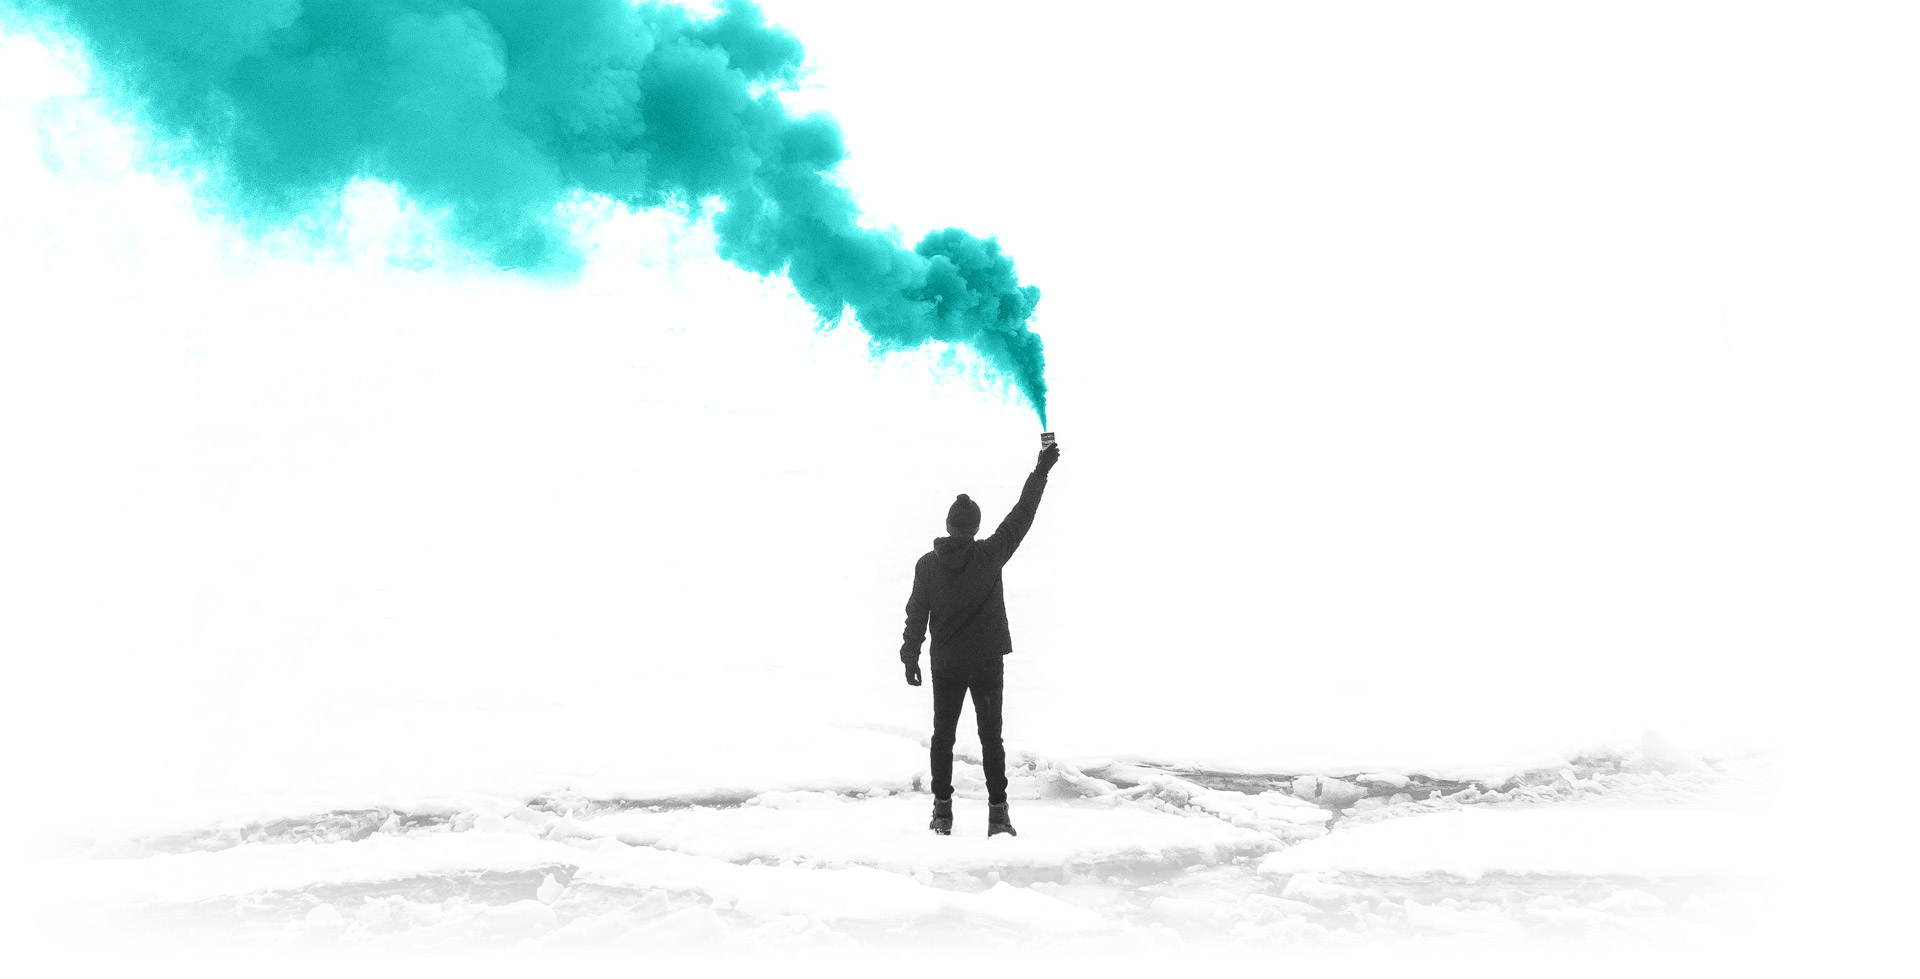
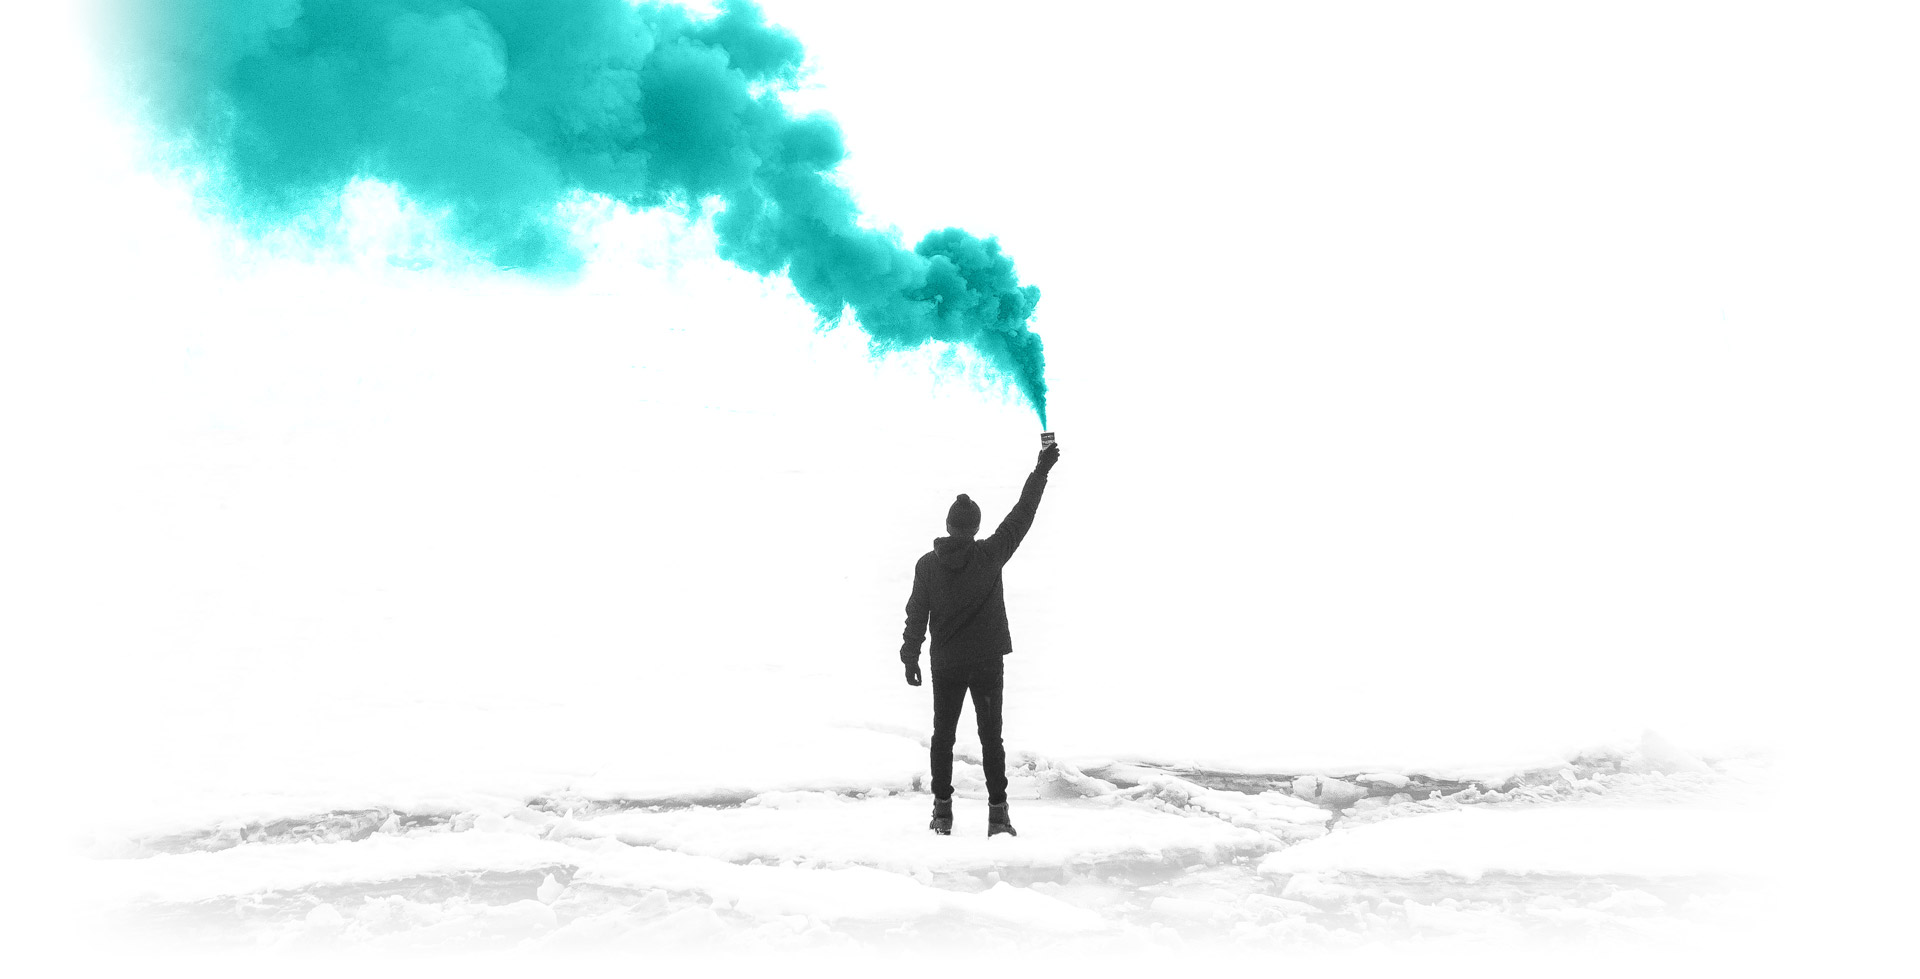
Align center

Changed region(s): [[0.0, 0.0, 0.125, 0.1839], [0.0, 0.1532, 0.0312, 0.1839]]

diff --git a/apps/client/src/app/pages/landing/landing-page.html b/apps/client/src/app/pages/landing/landing-page.html
@@ -1,5 +1,5 @@
 <div class="intro-container mb-5">
-  <div class="intro-inner-container">
+  <div class="intro-inner-container mx-auto">
     <div class="h-100 intro w-100"></div>
   </div>
 </div>
